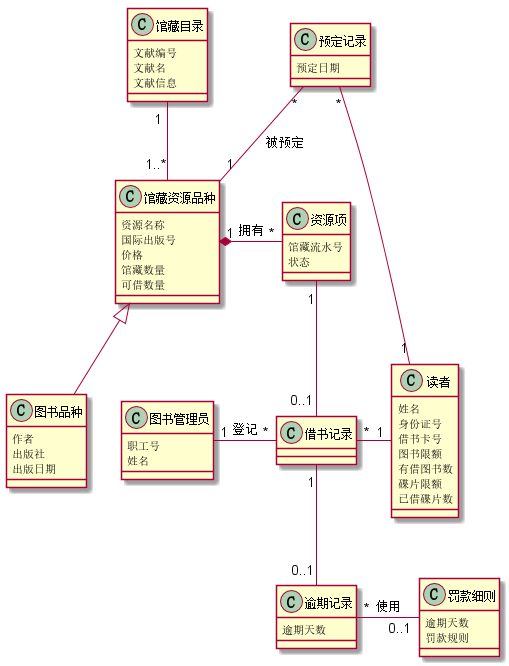
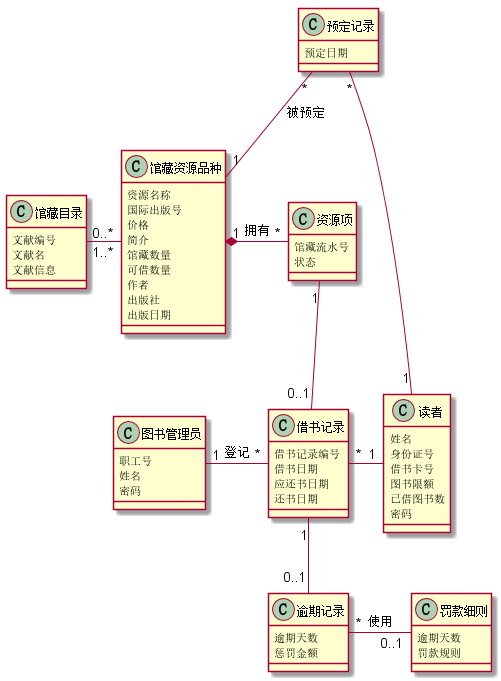
1.修改实验三 2.提交实验五

diff --git a/test5/README.md b/test5/README.md
@@ -1,0 +1,234 @@
+# 实验5：图书管理系统数据库设计与界面设计
+|学号|班级|姓名|
+|:-------:|:-------------: | :----------:|
+|201510414312|软件(本)15-3|邱小霞|
+
+## 1.数据库表设计
+
+## 1.1. 馆藏目录表
+|字段|类型|主键，外键|可以为空|默认值|约束|说明|
+|:-------:|:-------------:|:------:|:----:|:---:|:----:|:-----|
+|DOCUNUM|varchar2(100)|主键|否| | |文献编号|
+|DOCUNAME|varchar2(100)| |否| | |文献名|
+|DOCUDETAIL|varchar2(300)| |是|空 | |文献信息|
+
+## 1.2. 图书表
+|字段|类型|主键，外键|可以为空|默认值|约束|说明|
+|:-------:|:-------------:|:------:|:----:|:---:|:----:|:-----|
+|BOOKNUM|varchar2(100)|主键 |否| | |图书编号|
+|BOOKNAME|varchar2(100)| |否| | |资源名称(书名)|
+|ISBN|varchar2(100)| |否| | |国际出版号|
+|AUTHOR|varchar2(100)| |否| | |作者|
+|PUBLISH|varchar2(100)| |否| | |出版社|
+|PUBLISHDATE|varchar2(100)| |否| | |出版日期|
+|STIRENUM|number| |否| |大于0的正整数 |馆藏数量|
+|BCBORRNUM|number| |否| |大于等于0的正整数 |可借数量|
+|PRICE|float| |否| | 大于0|价格|
+|CONTENT|varchar2(100)| |是| 空| |简介|
+
+## 1.3. 资源项表
+|字段|类型|主键，外键|可以为空|默认值|约束|说明|
+|:-------:|:-------------:|:------:|:----:|:---:|:----:|:-----|
+|SERIALNUM|varchar2(100)|主键 |否| | |馆藏流水号|
+|BOOKNUM|varchar2(100)|外键|否| | |图书编号|
+|STATUS|boolean| |是|false | |状态，false为没有借出，true为借出|
+
+## 1.4. 预定记录表
+|字段|类型|主键，外键|可以为空|默认值|约束|说明|
+|:-------:|:-------------:|:------:|:----:|:---:|:----:|:-----|
+|ORDERNUM|varchar2(100)|主键|否| | |预定编号|
+|ORDERDATE|date| |否| | |预定日期|
+|READERNUM|varchar2(100)|外键|否| | |读者编号（读者的借书卡号）|
+
+## 1.5. 读者表
+|字段|类型|主键，外键|可以为空|默认值|约束|说明|
+|:-------:|:-------------:|:------:|:----:|:---:|:----:|:-----|
+|READERNUM|varchar2(100)|主键|否| | |借书卡号|
+|READERNAME|varchar2(100)| |否| | |姓名|
+|PASSWORD|varchar2(100)| |否| | |密码|
+|IDNUM|varchar2(100)| |是|空| |身份证号|
+|RBOOKLIMIT|number| |否| |大于等于0的正整数|图书限额|
+|RDBORRLIMIT|number| |否| |大于等于0的正整数|已借数量|
+
+## 1.6. 图书管理员表
+|字段|类型|主键，外键|可以为空|默认值|约束|说明|
+|:-------:|:-------------:|:------:|:----:|:---:|:----:|:-----|
+|STAFFNUM|varchar2(100)|主键|否| | |职工号|
+|STAFFNAME|varchar2(100)| |否| | |姓名|
+|PASSWORD|varchar2(100)| |否| | |密码|
+
+## 1.7. 逾期记录表
+|字段|类型|主键，外键|可以为空|默认值|约束|说明|
+|:-------:|:-------------:|:------:|:----:|:---:|:----:|:-----|
+|BORRNUM|varchar2(100)|主键、外键|否| | |逾期编号同时与“借书记录表”中“记录编号”相同|
+|OVERDUEDAY|date| |否| | |逾期天数|
+|READERNUM|varchar2(100)|外键|否| | |读者编号|
+
+## 1.8. 借书记录表
+|字段|类型|主键，外键|可以为空|默认值|约束|说明|
+|:-------:|:-------------:|:------:|:----:|:---:|:----:|:-----|
+|BORRNUM|varchar2(100)|主键|否| | |记录编号|
+|SERIALNUM|varchar2(100)|外键|否| | |馆藏流水号|
+|READERNUM|varchar2(100)|外键|否| | |借书卡号|
+|BORRDATE|data| |否| | |借书日期|
+|CRETURNDATE|data| |否| | |应还书日期|
+|RETURNDATE|data| |是| |空|还书日期|
+
+## 1.9. 罚款细则表
+|字段|类型|主键，外键|可以为空|默认值|约束|说明|
+|:-------:|:-------------:|:------:|:----:|:---:|:----:|:-----|
+|LATEDAY|varchar2(100)|主键|否| |大于0的正整数|逾期天数|
+|RULE|varchar2(100)| |否| | |罚款规则|
+***
+
+## 2. 界面设计
+## 2.1. 借书界面设计
+![pic1](pic1.png)
+- 用例图参见：借书用例
+- 类图参见：借书类，读者类
+- 顺序图参见：借书顺序图
+- API接口如下：
+
+1. 用户退出登录API
+- 功能：用于获取登录用户的信息
+- 请求地址： http://BookMange/v1/api/adminExit
+- 请求方法：POST
+- 请求参数：
+
+|参数名称|必填|说明|
+|:-------:|:-------------: | :----------:|
+|staffNum|是|用户的uid（这里的用户是图书管理员）|
+|access_token|是|用于验证请求合法性的认证信息。 |
+|method|是|固定为 “POST”。|
+
+- 返回实例：
+```
+{
+    "info": "退出成功",
+    "data": [
+        {
+          "STAFFNUM": "001",
+          "STAFFNAME": "xxx"
+         } 
+     ], 
+    "code": 200
+}
+```
+- 返回参数说明：
+    
+|参数名称|说明|
+|:-------:|:-------------: |
+|Info|返回信息|
+|data|用户的个人信息（这里的用户是图书管理员）,密码为了安全不予显示|
+|dodo|返回码|
+
+2. 返回借书结果的API
+- 功能：用于获取借书结果
+- 请求地址： http://BookMange/v1/api/borrowResult
+- 请求方法：POST
+
+|参数名称|必填|说明|
+|:-------:|:-------------: | :----------:|
+|access_token|是|用于验证请求合法性的认证信息。 |
+|method|是|固定为 “POST”。|
+
+- 返回实例：
+```
+
+{
+    "info": "借书返回成功",
+    "data": 
+        {
+          "BORRNUM" = "000001"
+          "SERIALNUM" = "000000101"
+          "READERNUM" ="201510414312"
+          "BORRDATE" ="2018.5.6 17:32"
+          "CRETURNDATE" ="2018.6.6 17:32"
+          "RETURNDATE" = ""
+        },
+    "code": 200
+}
+```
+- 返回参数说明：
+    
+|参数名称|说明|
+|:-------:|:-------------: |
+|Info|返回信息|
+|data|生成的借书记录|
+|dodo|返回码|
+
+3. 验证读者编号API
+- 功能：验证用户名
+- 请求地址： http://BookMange/v1/api/verifyReader
+- 请求方法：POST
+- 请求参数：
+
+|参数名称|必填|说明|
+|:-------:|:-------------: | :----------:|
+|access_token|是|用于验证请求合法性的认证信息。 |
+|method|是|固定为 “POST”。|
+
+- 返回实例：
+```
+
+{
+    "info": "存在此读者",
+    "data": [
+        {
+          "READERNUM" = "201510414312"
+          "READERNAME" = "qxx"
+          "IDNUM" ="xxxxxxxx"
+          "RBOOKLIMIT" ="30"
+          "RDBORRLIMIT" = "8"
+        }
+    ],
+    "code": 200
+}
+```
+- 返回参数说明：
+    
+|参数名称|说明|
+|:-------:|:-------------: |
+|Info|返回信息|
+|data|查询到的读者信息，密码为了安全不予显示|
+|dodo|返回码|
+
+ 4. 验证图书编号API
+ - 功能：验证图书编号
+ - 请求地址： http://BookMange/v1/api/verifyBook
+ - 请求方法：POST
+ - 请求参数：
+ 
+ |参数名称|必填|说明|
+ |:-------:|:-------------: | :----------:|
+ |access_token|是|用于验证请求合法性的认证信息。 |
+ |method|是|固定为 “POST”。|
+ 
+ - 返回实例：
+ ```
+ 
+ {
+ "info": "存在此类图书",
+     "data": [
+         {
+             "BOOKNAME" = "信息系统分析与设计"
+             "ISBN" = "978-7-302-32982-404"
+             "AUTHOR" ="王小敏"
+             "PUBLISH" = "清华大学出版社"
+             "PUBLISHDATE" = "2013"
+             "STIRENUM" = 200
+             "BCBORRNUM" = 159
+             "PRICE" = 45
+             "CONTENT" = "本书共十四章...."
+         }
+     ],
+     "code": 200
+ }
+ ```
+ - 返回参数说明：
+     
+ |参数名称|说明|
+ |:-------:|:-------------: |
+ |Info|返回信息|
+ |data|查询到的图书信息|
+ |dodo|返回码|

diff --git a/test3/README.md b/test3/README.md
@@ -1,4 +1,4 @@
-# 实验3：图书管理系统领域对象建模
+# 实验3：图书管理系统领域对象建模（老师示范）
 |学号|班级|姓名|
 |:-------:|:-------------: | :----------:|
 |201510414312|软件(本)15-3|邱小霞|
@@ -21,6 +21,9 @@ class 馆藏资源品种{
       简介
       馆藏数量
       可借数量
+      作者
+      出版社
+      出版日期
 }
 class 资源项{
     馆藏流水号
@@ -30,40 +33,42 @@ class 预定记录{
     预定日期
 }
 
-class 图书品种{
-    作者
-    出版社
-    出版日期
-}
 class 读者{
     姓名
     身份证号
     借书卡号
     图书限额
-    有借图书数
+    已借图书数
+    密码
 }
 class 图书管理员{
     职工号
     姓名
+    密码
 }
 class 逾期记录{
     逾期天数
+    惩罚金额
 }
 class 罚款细则{
     逾期天数
     罚款规则
 }
+class 借书记录{
+    借书记录编号
+    借书日期
+    应还书日期
+    还书日期
+}
 馆藏目录 "0..*" - "1..*" 馆藏资源品种
-馆藏资源品种 "1" *- "*" 资源项 :    拥有
+馆藏资源品种 "1" *- "*" 资源项 : 拥有
 预定记录 "*" -- "1"馆藏资源品种 : 被预定
-馆藏资源品种 <|-- 图书品种
 预定记录 "*" -- "1" 读者
 资源项 "1" -- "0..1"借书记录
 图书管理员 "1" - "*" 借书记录 : 登记
-借书记录 "*" - "1" 读者
+借书记录 "*" -"1" 读者
 借书记录 "1" --  "0..1" 逾期记录
 逾期记录 "*" - "0..1" 罚款细则 : 使用
-
 @enduml
 ```
 
@@ -102,13 +107,17 @@ class 馆藏目录 {
 #### 源码如下：
 ``` class
 @startuml
-class 图书品种{
-  书名 = "信息系统分析与设计"
-  国际书号 = "978-7-302-32982-404"
+@startuml
+class 馆藏资源品种品种{
+  资源名称 = "信息系统分析与设计"
+  国际出版号 = "978-7-302-32982-404"
   作者 ="王小敏"
   出版社 = "清华大学出版社"
+  出版日期 = "2013"
   馆藏数量 = 200
   可借数量 = 159
+  价格 = 45
+  简介 = "本书共十四章...."
 }
 @enduml
 ``` 
